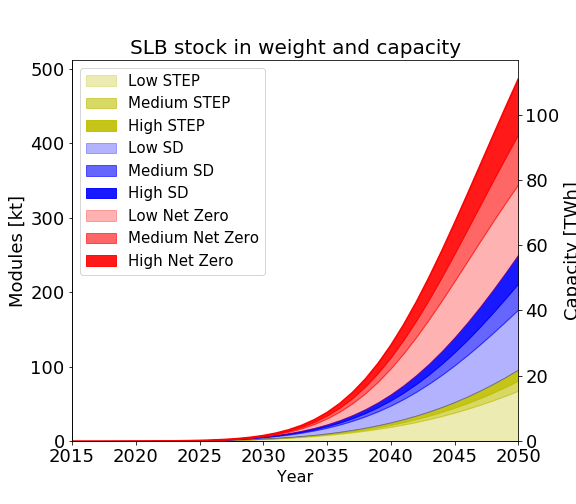
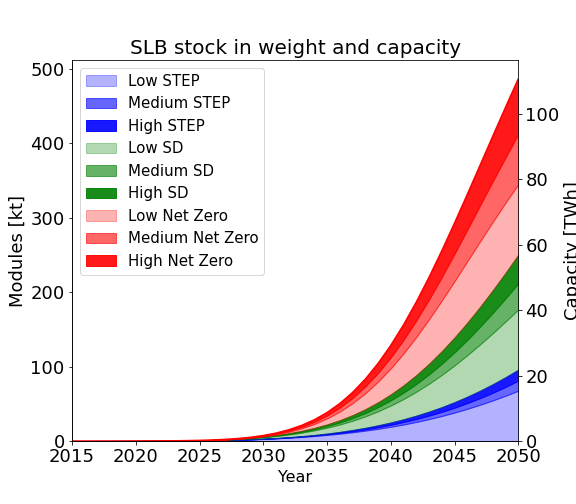
Updated plots

diff --git a/Vehicle_Fleet.py b/Vehicle_Fleet.py
@@ -1232,6 +1232,124 @@ def flows():
     ax[1].grid()
     fig.savefig(os.getcwd() + '/results/overview/system_flows', dpi=300)
 
+def flows_alt():
+    custom_cycler = cycler(color=sns.color_palette('Paired', 20)) #'Set2', 'Paired', 'YlGnBu'
+    fig, ax = plt.subplots(1,3, figsize=(21,10))
+    ax[0].set_prop_cycle(custom_cycler)
+    ax[0].plot(MaTrace_System.IndexTable['Classification']['Time'].Items[55:], 
+                np.einsum('st->t', MaTrace_System.FlowDict['F_2_3'].Values[0,0,r,1,:,55:]/1000))
+    ax[0].plot(MaTrace_System.IndexTable['Classification']['Time'].Items[55:], 
+                np.einsum('stc->t', MaTrace_System.FlowDict['F_3_4'].Values[0,0,r,1,:,55:,:]/1000))
+    
+    ax[0].plot(MaTrace_System.IndexTable['Classification']['Time'].Items[55:], 
+                np.einsum('st->t', MaTrace_System.FlowDict['F_2_3'].Values[0,1,r,1,:,55:]/1000))
+    ax[0].plot(MaTrace_System.IndexTable['Classification']['Time'].Items[55:], 
+                np.einsum('stc->t', MaTrace_System.FlowDict['F_3_4'].Values[0,1,r,1,:,55:,:]/1000))
+    
+    ax[0].plot(MaTrace_System.IndexTable['Classification']['Time'].Items[55:], 
+                np.einsum('st->t', MaTrace_System.FlowDict['F_2_3'].Values[0,2,r,1,:,55:]/1000))
+    ax[0].plot(MaTrace_System.IndexTable['Classification']['Time'].Items[55:], 
+                np.einsum('stc->t', MaTrace_System.FlowDict['F_3_4'].Values[0,2,r,1,:,55:,:]/1000))
+    
+    fill_cycler = cycler(color=sns.color_palette('Set1', 20)) #'Set2', 'Paired', 'YlGnBu'
+    ax[0].set_prop_cycle(fill_cycler)
+    ax[0].fill_between(MaTrace_System.IndexTable['Classification']['Time'].Items[55:],np.einsum('st->t', MaTrace_System.FlowDict['F_2_3'].Values[0,2,r,1,:,55:]/1000),\
+        np.einsum('stc->t', MaTrace_System.FlowDict['F_3_4'].Values[0,2,r,1,:,55:,:]/1000), alpha=0.2)
+    ax[0].fill_between(MaTrace_System.IndexTable['Classification']['Time'].Items[55:],np.einsum('st->t', MaTrace_System.FlowDict['F_2_3'].Values[0,0,r,1,:,55:]/1000),\
+        np.einsum('stc->t', MaTrace_System.FlowDict['F_3_4'].Values[0,0,r,1,:,55:,:]/1000), alpha=0.2)
+    ax[0].fill_between(MaTrace_System.IndexTable['Classification']['Time'].Items[55:],np.einsum('st->t', MaTrace_System.FlowDict['F_2_3'].Values[0,1,r,1,:,55:]/1000),\
+        np.einsum('stc->t', MaTrace_System.FlowDict['F_3_4'].Values[0,1,r,1,:,55:,:]/1000), alpha=0.2)
+    
+    ax[0].set_ylabel('Nr. of Vehicles [million]',fontsize =18)
+    right_side = ax[0].spines["right"]
+    right_side.set_visible(False)
+    top = ax[0].spines["top"]
+    top.set_visible(False)
+    ax[0].set_title('a) Low stock scenarios', fontsize=20)
+    ax[0].set_xlabel('Year',fontsize =18)
+    ax[0].tick_params(axis='both', which='major', labelsize=16)
+    ax[0].set_ylim([0,700])
+    ax[0].set_xlim([2015,2050])
+    ax[0].grid()
+    
+    custom_cycler = cycler(color=sns.color_palette('Paired', 20)) #'Set2', 'Paired', 'YlGnBu'
+    ax[1].set_prop_cycle(custom_cycler)
+    ax[1].plot(MaTrace_System.IndexTable['Classification']['Time'].Items[55:], 
+                np.einsum('st->t', MaTrace_System.FlowDict['F_2_3'].Values[1,0,r,1,:,55:]/1000))
+    ax[1].plot(MaTrace_System.IndexTable['Classification']['Time'].Items[55:], 
+                np.einsum('stc->t', MaTrace_System.FlowDict['F_3_4'].Values[1,0,r,1,:,55:,:]/1000))
+    
+    ax[1].plot(MaTrace_System.IndexTable['Classification']['Time'].Items[55:], 
+                np.einsum('st->t', MaTrace_System.FlowDict['F_2_3'].Values[1,1,r,1,:,55:]/1000))
+    ax[1].plot(MaTrace_System.IndexTable['Classification']['Time'].Items[55:], 
+                np.einsum('stc->t', MaTrace_System.FlowDict['F_3_4'].Values[1,1,r,1,:,55:,:]/1000))
+    
+    ax[1].plot(MaTrace_System.IndexTable['Classification']['Time'].Items[55:], 
+                np.einsum('st->t', MaTrace_System.FlowDict['F_2_3'].Values[1,2,r,1,:,55:]/1000))
+    ax[1].plot(MaTrace_System.IndexTable['Classification']['Time'].Items[55:], 
+                np.einsum('stc->t', MaTrace_System.FlowDict['F_3_4'].Values[1,2,r,1,:,55:,:]/1000))
+    
+    fill_cycler = cycler(color=sns.color_palette('Set1', 20)) #'Set2', 'Paired', 'YlGnBu'
+    ax[1].set_prop_cycle(fill_cycler)
+    ax[1].fill_between(MaTrace_System.IndexTable['Classification']['Time'].Items[55:],np.einsum('st->t', MaTrace_System.FlowDict['F_2_3'].Values[1,2,r,1,:,55:]/1000),\
+        np.einsum('stc->t', MaTrace_System.FlowDict['F_3_4'].Values[1,2,r,1,:,55:,:]/1000), alpha=0.2)
+    ax[1].fill_between(MaTrace_System.IndexTable['Classification']['Time'].Items[55:],np.einsum('st->t', MaTrace_System.FlowDict['F_2_3'].Values[1,0,r,1,:,55:]/1000),\
+        np.einsum('stc->t', MaTrace_System.FlowDict['F_3_4'].Values[1,0,r,1,:,55:,:]/1000), alpha=0.2)
+    ax[1].fill_between(MaTrace_System.IndexTable['Classification']['Time'].Items[55:],np.einsum('st->t', MaTrace_System.FlowDict['F_2_3'].Values[1,1,r,1,:,55:]/1000),\
+        np.einsum('stc->t', MaTrace_System.FlowDict['F_3_4'].Values[1,1,r,1,:,55:,:]/1000), alpha=0.2)
+    
+    ax[1].set_ylabel('Nr. of Vehicles [million]',fontsize =18)
+    right_side = ax[1].spines["right"]
+    right_side.set_visible(False)
+    top = ax[1].spines["top"]
+    top.set_visible(False)
+    ax[1].set_title('b) Medium stock scenarios', fontsize=20)
+    ax[1].set_xlabel('Year',fontsize =18)
+    ax[1].tick_params(axis='both', which='major', labelsize=16)
+    ax[1].set_ylim([0,700])
+    ax[1].set_xlim([2015,2050])
+    ax[1].grid()
+    
+    custom_cycler = cycler(color=sns.color_palette('Paired', 20)) #'Set2', 'Paired', 'YlGnBu'    ax[2].set_prop_cycle(custom_cycler)
+    ax[2].set_prop_cycle(custom_cycler)
+    ax[2].plot(MaTrace_System.IndexTable['Classification']['Time'].Items[55:], 
+                np.einsum('st->t', MaTrace_System.FlowDict['F_2_3'].Values[2,0,r,1,:,55:]/1000), label='STEP inflows')
+    ax[2].plot(MaTrace_System.IndexTable['Classification']['Time'].Items[55:], 
+                np.einsum('stc->t', MaTrace_System.FlowDict['F_3_4'].Values[2,0,r,1,:,55:,:]/1000), label='STEP outflows')
+    
+    ax[2].plot(MaTrace_System.IndexTable['Classification']['Time'].Items[55:], 
+                np.einsum('st->t', MaTrace_System.FlowDict['F_2_3'].Values[2,1,r,1,:,55:]/1000), label='SD inflows')
+    ax[2].plot(MaTrace_System.IndexTable['Classification']['Time'].Items[55:], 
+                np.einsum('stc->t', MaTrace_System.FlowDict['F_3_4'].Values[2,1,r,1,:,55:,:]/1000), label='SD outflows')
+    
+    ax[2].plot(MaTrace_System.IndexTable['Classification']['Time'].Items[55:], 
+                np.einsum('st->t', MaTrace_System.FlowDict['F_2_3'].Values[2,2,r,1,:,55:]/1000), label='Net Zero inflows')
+    ax[2].plot(MaTrace_System.IndexTable['Classification']['Time'].Items[55:], 
+                np.einsum('stc->t', MaTrace_System.FlowDict['F_3_4'].Values[2,2,r,1,:,55:,:]/1000), label='Net Zero outflows')
+    
+    fill_cycler = cycler(color=sns.color_palette('Set1', 20)) #'Set2', 'Paired', 'YlGnBu'
+    ax[2].set_prop_cycle(fill_cycler)
+    ax[2].fill_between(MaTrace_System.IndexTable['Classification']['Time'].Items[55:],np.einsum('st->t', MaTrace_System.FlowDict['F_2_3'].Values[2,2,r,1,:,55:]/1000),\
+        np.einsum('stc->t', MaTrace_System.FlowDict['F_3_4'].Values[2,2,r,1,:,55:,:]/1000), label='Resource gap Net Zero', alpha=0.2)
+    ax[2].fill_between(MaTrace_System.IndexTable['Classification']['Time'].Items[55:],np.einsum('st->t', MaTrace_System.FlowDict['F_2_3'].Values[2,0,r,1,:,55:]/1000),\
+        np.einsum('stc->t', MaTrace_System.FlowDict['F_3_4'].Values[2,0,r,1,:,55:,:]/1000), label='Resource gap SD', alpha=0.2)
+    ax[2].fill_between(MaTrace_System.IndexTable['Classification']['Time'].Items[55:],np.einsum('st->t', MaTrace_System.FlowDict['F_2_3'].Values[2,1,r,1,:,55:]/1000),\
+        np.einsum('stc->t', MaTrace_System.FlowDict['F_3_4'].Values[2,1,r,1,:,55:,:]/1000), label='Resource gap STEP', alpha=0.2)
+    
+    ax[2].set_ylabel('Nr. of Vehicles [million]',fontsize =18)
+    right_side = ax[1].spines["right"]
+    right_side.set_visible(False)
+    top = ax[1].spines["top"]
+    top.set_visible(False)
+    ax[2].set_title('c) High stock scenarios', fontsize=20)
+    ax[2].set_xlabel('Year',fontsize =18)
+    ax[2].tick_params(axis='both', which='major', labelsize=16)
+    ax[2].set_ylim([0,700])
+    ax[2].set_xlim([2015,2050])
+    ax[2].grid()
+    fig.legend(loc='lower left', prop={'size':20}, bbox_to_anchor =(0.1, -0.1), ncol = 3, columnspacing = 1, handletextpad = 2, handlelength = 2)
+    fig.savefig(os.getcwd() + '/results/overview/system_flows_alt', dpi=300)
+
 def slb_stock():
     ### SLB stock
     #for a,k in enumerate(IndexTable.Classification[IndexTable.index.get_loc('Chemistry_Scenarios')].Items):
@@ -1252,33 +1370,33 @@ def slb_stock():
     #ax.pcolormesh(cmap=slb_cycle)
     ax.fill_between(MaTrace_System.IndexTable['Classification']['Time'].Items[55::], 
                 MaTrace_System.StockDict['P_6'].Values[z,S,a,R,r,:,0,55::].sum(axis=0)/1000000 ,\
-                    0, color = 'y', alpha = 0.3, label='Low STEP')
+                    0, color = 'b', alpha = 0.3, label='Low STEP')
     last = MaTrace_System.StockDict['P_6'].Values[z,S,a,R,r,:,0,55::].sum(axis=0)/1000000
     z=1
     ax.fill_between(MaTrace_System.IndexTable['Classification']['Time'].Items[55::], 
                 MaTrace_System.StockDict['P_6'].Values[z,S,a,R,r,:,0,55::].sum(axis=0)/1000000 ,\
-                    last, color = 'y', alpha = 0.6, label='Medium STEP')
+                    last, color = 'b', alpha = 0.6, label='Medium STEP')
     last = MaTrace_System.StockDict['P_6'].Values[z,S,a,R,r,:,0,55::].sum(axis=0)/1000000
     z=2
     ax.fill_between(MaTrace_System.IndexTable['Classification']['Time'].Items[55::], 
                 MaTrace_System.StockDict['P_6'].Values[z,S,a,R,r,:,0,55::].sum(axis=0)/1000000 ,\
-                    last, color = 'y', alpha = 0.9, label='High STEP')
+                    last, color = 'b', alpha = 0.9, label='High STEP')
     last = MaTrace_System.StockDict['P_6'].Values[z,S,a,R,r,:,0,55::].sum(axis=0)/1000000
     z=0
     S=1
     ax.fill_between(MaTrace_System.IndexTable['Classification']['Time'].Items[55::], 
                 MaTrace_System.StockDict['P_6'].Values[z,S,a,R,r,:,0,55::].sum(axis=0)/1000000 ,\
-                    last, color = 'b', alpha = 0.3, label='Low SD')
+                    last, color = 'g', alpha = 0.3, label='Low SD')
     last = MaTrace_System.StockDict['P_6'].Values[z,S,a,R,r,:,0,55::].sum(axis=0)/1000000
     z=1
     ax.fill_between(MaTrace_System.IndexTable['Classification']['Time'].Items[55::], 
                 MaTrace_System.StockDict['P_6'].Values[z,S,a,R,r,:,0,55::].sum(axis=0)/1000000 ,\
-                    last, color = 'b', alpha = 0.6, label='Medium SD')
+                    last, color = 'g', alpha = 0.6, label='Medium SD')
     last = MaTrace_System.StockDict['P_6'].Values[z,S,a,R,r,:,0,55::].sum(axis=0)/1000000
     z=2
     ax.fill_between(MaTrace_System.IndexTable['Classification']['Time'].Items[55::], 
                 MaTrace_System.StockDict['P_6'].Values[z,S,a,R,r,:,0,55::].sum(axis=0)/1000000 ,\
-                    last, color = 'b', alpha = 0.9, label='High SD')
+                    last, color = 'g', alpha = 0.9, label='High SD')
     last = MaTrace_System.StockDict['P_6'].Values[z,S,a,R,r,:,0,55::].sum(axis=0)/1000000
     z=0
     S=2
@@ -1458,12 +1576,11 @@ def strategies_comparative():
     right_side.set_visible(False)
     top = ax[0,0].spines["top"]
     top.set_visible(False)
-    ax[0,0].legend(['Business as usual', 'Shift to LFP', 'Second-life', 'Fleet reduction', 'Efficient recycling', 'Replacements and reuse'], loc='upper left',prop={'size':15})
     ax[0,0].set_title('a) Nickel', fontsize=20)
     ax[0,0].set_xlabel('Year',fontsize =16)
     #ax.set_ylim([0,5])
     ax[0,0].tick_params(axis='both', which='major', labelsize=18)
-
+    ax[0,0].grid()
     ## Plot Li
     ax[0,1].set_prop_cycle(custom_cycler)
     e = 0 # Li
@@ -1498,12 +1615,11 @@ def strategies_comparative():
     right_side.set_visible(False)
     top = ax[0,1].spines["top"]
     top.set_visible(False)
-    ax[0,1].legend(['Business as usual', 'Shift to LFP', 'Second-life', 'Fleet reduction', 'Efficient recycling', 'Replacements and reuse'], loc='upper left',prop={'size':15})
     ax[0,1].set_title('b) Lithium', fontsize=20)
     ax[0,1].set_xlabel('Year',fontsize =16)
     #ax.set_ylim([0,5])
     ax[0,1].tick_params(axis='both', which='major', labelsize=18)
-    
+    ax[0,1].grid()
     ## Plot Co
     ax[1,0].set_prop_cycle(custom_cycler)
     e = 6 # Co
@@ -1537,12 +1653,11 @@ def strategies_comparative():
     right_side.set_visible(False)
     top = ax[1,0].spines["top"]
     top.set_visible(False)
-    ax[1,0].legend(['Business as usual', 'Shift to LFP', 'Second-life', 'Fleet reduction', 'Efficient recycling', 'Replacements and reuse'], loc='upper left',prop={'size':15})
     ax[1,0].set_title('c) Cobalt', fontsize=20)
     ax[1,0].set_xlabel('Year',fontsize =16)
     #ax.set_ylim([0,5])
     ax[1,0].tick_params(axis='both', which='major', labelsize=18)
-    
+    ax[1,0].grid()
     ## Plot P
     ax[1,1].set_prop_cycle(custom_cycler)
     e = 4 # P
@@ -1576,12 +1691,11 @@ def strategies_comparative():
     right_side.set_visible(False)
     top = ax[1,1].spines["top"]
     top.set_visible(False)
-    ax[1,1].legend(['Business as usual', 'Shift to LFP', 'Second-life', 'Fleet reduction', 'Efficient recycling', 'Replacements and reuse'], loc='upper left',prop={'size':15})
     ax[1,1].set_title('d) Phosphorous', fontsize=20)
     ax[1,1].set_xlabel('Year',fontsize =16)
     #ax.set_ylim([0,5])
     ax[1,1].tick_params(axis='both', which='major', labelsize=18)
-
+    ax[1,1].grid()
     ## Plot Al
     ax[2,0].set_prop_cycle(custom_cycler)
     e = 2 # Al
@@ -1615,12 +1729,11 @@ def strategies_comparative():
     right_side.set_visible(False)
     top = ax[2,0].spines["top"]
     top.set_visible(False)
-    ax[2,0].legend(['Business as usual', 'Shift to LFP', 'Second-life', 'Fleet reduction', 'Efficient recycling', 'Replacements and reuse'], loc='upper left',prop={'size':15})
     ax[2,0].set_title('e) Aluminium', fontsize=20)
     ax[2,0].set_xlabel('Year',fontsize =16)
     #ax.set_ylim([0,5])
     ax[2,0].tick_params(axis='both', which='major', labelsize=18)
-    
+    ax[2,0].grid()
     ## Plot Graphite
     ax[2,1].set_prop_cycle(custom_cycler)
     e = 1 # Graphite
@@ -1654,12 +1767,11 @@ def strategies_comparative():
     right_side.set_visible(False)
     top = ax[2,1].spines["top"]
     top.set_visible(False)
-    ax[2,1].legend(['Business as usual', 'Shift to LFP', 'Second-life', 'Fleet reduction', 'Efficient recycling', 'Replacements and reuse'], loc='upper left',prop={'size':15})
     ax[2,1].set_title('f) Graphite', fontsize=20)
     ax[2,1].set_xlabel('Year',fontsize =16)
     #ax.set_ylim([0,5])
     ax[2,1].tick_params(axis='both', which='major', labelsize=18)
-    
+    ax[2,1].grid()
     
     ## Plot Mn
     ax[3,0].set_prop_cycle(custom_cycler)
@@ -1694,12 +1806,11 @@ def strategies_comparative():
     right_side.set_visible(False)
     top = ax[3,0].spines["top"]
     top.set_visible(False)
-    ax[3,0].legend(['Business as usual', 'Shift to LFP', 'Second-life', 'Fleet reduction', 'Efficient recycling', 'Replacements and reuse'], loc='upper left',prop={'size':15})
     ax[3,0].set_title('g) Manganese', fontsize=20)
     ax[3,0].set_xlabel('Year',fontsize =16)
     #ax.set_ylim([0,5])
     ax[3,0].tick_params(axis='both', which='major', labelsize=18)
-    
+    ax[3,0].grid()
     
     ## Plot Si
     ax[3,1].set_prop_cycle(custom_cycler)
@@ -1710,35 +1821,38 @@ def strategies_comparative():
     R = 0 # LFP reuse
     h = 1 # Hydrometallurgical
     ax[3,1].plot(MaTrace_System.IndexTable['Classification']['Time'].Items[65::], 
-                np.einsum('pt->t', MaTrace_System.FlowDict['E_0_1'].Values[z,S,a,R,r,:,e,h,65::])/1000000, linewidth=4)
+                np.einsum('pt->t', MaTrace_System.FlowDict['E_0_1'].Values[z,S,a,R,r,:,e,h,65::])/1000000, linewidth=4, label='Baseline')
     a = 1 # High LFP
     ax[3,1].plot(MaTrace_System.IndexTable['Classification']['Time'].Items[65::], 
-                np.einsum('pt->t', MaTrace_System.FlowDict['E_0_1'].Values[z,S,a,R,r,:,e,h,65::])/1000000)
+                np.einsum('pt->t', MaTrace_System.FlowDict['E_0_1'].Values[z,S,a,R,r,:,e,h,65::])/1000000, label='Shift to LFP')
     a = 6 # BNEF
     R = 2 # All reuse
     ax[3,1].plot(MaTrace_System.IndexTable['Classification']['Time'].Items[65::], 
-                np.einsum('pt->t', MaTrace_System.FlowDict['E_0_1'].Values[z,S,a,R,r,:,e,h,65::])/1000000)
+                np.einsum('pt->t', MaTrace_System.FlowDict['E_0_1'].Values[z,S,a,R,r,:,e,h,65::])/1000000, label = 'Second-life')
     R = 0 # LFP reused
     z = 0 # Low
     ax[3,1].plot(MaTrace_System.IndexTable['Classification']['Time'].Items[65::], 
-            np.einsum('pt->t', MaTrace_System.FlowDict['E_0_1'].Values[z,S,a,R,r,:,e,h,65::])/1000000)
+            np.einsum('pt->t', MaTrace_System.FlowDict['E_0_1'].Values[z,S,a,R,r,:,e,h,65::])/1000000, label = 'Fleet reduction')
     z = 1 # Low
     h = 0 # Direct
     ax[3,1].plot(MaTrace_System.IndexTable['Classification']['Time'].Items[65::], 
-            np.einsum('pt->t', MaTrace_System.FlowDict['E_0_1'].Values[z,S,a,R,r,:,e,h,65::])/1000000)
+            np.einsum('pt->t', MaTrace_System.FlowDict['E_0_1'].Values[z,S,a,R,r,:,e,h,65::])/1000000, label = 'Efficient recycling')
     h = 1 # Hydro
     ax[3,1].plot(MaTrace_System.IndexTable['Classification']['Time'].Items[65::], 
-            np.einsum('pt->t', e01_replacements[z,S,a,R,r,:,e,h,65::])/1000000)
+            np.einsum('pt->t', e01_replacements[z,S,a,R,r,:,e,h,65::])/1000000, label = 'Reuse and replacements')
     ax[3,1].set_ylabel('Primary Si demand [Mt]',fontsize =18)
     right_side = ax[3,1].spines["right"]
     right_side.set_visible(False)
     top = ax[3,1].spines["top"]
     top.set_visible(False)
-    ax[3,1].legend(['Business as usual', 'Shift to LFP', 'Second-life', 'Fleet reduction', 'Efficient recycling', 'Replacements and reuse'], loc='upper left',prop={'size':15})
     ax[3,1].set_title('h) Silicon', fontsize=20)
     ax[3,1].set_xlabel('Year',fontsize =16)
     #ax.set_ylim([0,5])
     ax[3,1].tick_params(axis='both', which='major', labelsize=18)
+    ax[3,1].grid()
+    
+    fig.suptitle('Primary resource use sensitivity to parameters', fontsize=30, y=0.92)
+    fig.legend(loc='lower left', prop={'size':20}, bbox_to_anchor =(0.2, 0.05), ncol = 3, columnspacing = 1, handletextpad = 2, handlelength = 2)
     fig.savefig(os.getcwd() + '/results/overview/resource_strategies', dpi=300)
 
 def sensitivity_analysis():
@@ -2653,7 +2767,7 @@ def sensitivity_analysis_newcolor():
     fig.legend(custom_lines, ['Slow EV penetration scenarios', 'Medium EV penetration scenarios', 'Fast EV penetration scenarios']+labels, loc='lower left', prop={'size':20}, bbox_to_anchor =(0.1, 0), ncol = 3, columnspacing = 1, handletextpad = 2, handlelength = 2)
     #fig.legend(scen_lines, ['Slow EV penetration scenarios', 'Medium EV penetration scenarios', 'Fast EV penetration scenarios'], loc='upper left',prop={'size':20}, bbox_to_anchor =(1, 0.7), fontsize=20)
     # Add title
-    fig.suptitle('Resource use per technology used to meet storage demand', fontsize=25)
+    fig.suptitle('Resource use per technology used to meet storage demand', fontsize=30)
     fig.subplots_adjust(top=0.92, bottom=0.08)
     fig.savefig(os.getcwd() + '/results/overview/sensitivity_analysis_cool', dpi=300)
 
@@ -3197,13 +3311,14 @@ def sensitivity_table():
     # Close the Pandas Excel writer and output the Excel file.
     writer.save()
     
-
 def export_P():
     results = os.path.join(os.getcwd(), 'results')
     #np.save(results+'/arrays/P_demand_vehicles_global', np.einsum('zSaRpht->zSaRht', MaTrace_System.FlowDict['E_0_1'].Values[:,:,:,:,r,:,4,:,:])/1000)
     
 def export_Li():
     np.save('/Users/fernaag/Library/CloudStorage/Box-Box/BATMAN/Data/Database/data/04_model_output/Li_demand_vehicles_global', np.einsum('zSaRpht->zSaRht', MaTrace_System.FlowDict['E_0_1'].Values[:,:,:,:,r,:,0,:,:])/1000)
+
+# %%
 
 # %%
 def model_case_6():

diff --git a/LogFileTest.md b/LogFileTest.md
@@ -18,3 +18,7 @@ Define model classifications and select items for model classifications accordin
 
 Define index table dataframe.
 
+No artists with labels found to put in legend.  Note that artists whose label start with an underscore are ignored when legend() is called with no argument.
+
+No artists with labels found to put in legend.  Note that artists whose label start with an underscore are ignored when legend() is called with no argument.
+
